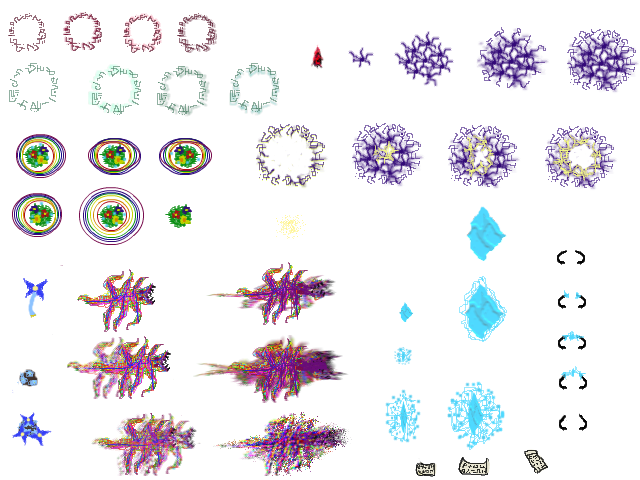
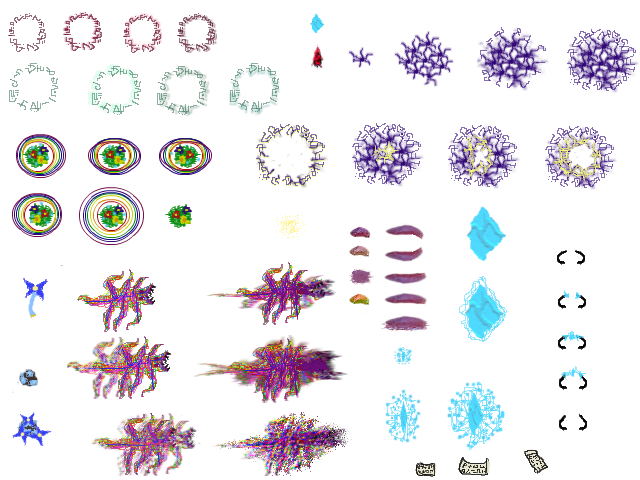
Little updates and such...

Changed region(s): [[0.5312, 0.4688, 0.6875, 0.6875], [0.4688, 0.0312, 0.5, 0.0625]]

diff --git a/web/otherLOTCB.js b/web/otherLOTCB.js
@@ -277,6 +277,9 @@ var mushBlurRot = 0;
 var mushStretch = [9, 9.5, 10, 11, 11.5, 12, 15];
 var mushStretchX = 9;
 var mushStretchY = 9;
+var mushBlurRot2 = 0;
+var mushStretchX2 = 9;
+var mushStretchY2 = 9;
 //Screen Covers (includes night and day cycle)
 function screenCover()
 {
@@ -358,11 +361,10 @@ function screenCover()
     //Cyrinthilim Mushroom Drug Trip
     if (player.cyrinthilimTrip)
     {
-        mushBlurRot += 1/360 * Math.PI
+        mushBlurRot += 1/360 * Math.PI;
         mushStretchX = mushStretch[Math.floor(Math.random() * 7)];
         mushStretchY = mushStretch[Math.floor(Math.random() * 7)];
 
-        //todo add this drug trip!
         XXX.beginPath();
         XXX.save();
         XXX.translate(1/2 * CCC.width, 1/2 * CCC.height);
@@ -371,8 +373,37 @@ function screenCover()
         XXX.globalAlpha = 0.4;
         XXX.drawImage(mushBlur, -1/2 * mushBlur.width, -1/2 * mushBlur.height);
         XXX.restore();
-
     }
+
+    if (player.haeflowerTrip)
+    {
+         mushBlurRot2 += 20/360 * Math.PI;
+         mushStretchX2 = 8 + Math.floor(Math.random() * 20);
+         mushStretchY2 = 8 + Math.floor(Math.random() * 20);
+
+         XXX.beginPath();
+         XXX.save();
+         XXX.translate(1/2 * CCC.width, 1/2 * CCC.height);
+         XXX.scale(mushStretchX2, mushStretchY2);
+         XXX.rotate(mushBlurRot2);
+         XXX.globalAlpha = 0.4;
+         XXX.drawImage(rainSpin, -1/2 * rainSpin.width, -1/2 * rainSpin.height);
+         XXX.restore();
+
+        mushBlurRot -= 10/360 * Math.PI;
+        mushStretchX = 8 + Math.floor(Math.random() * 20);
+        mushStretchY = 8 + Math.floor(Math.random() * 20);
+
+        XXX.beginPath();
+        XXX.save();
+        XXX.translate(1/2 * CCC.width, 1/2 * CCC.height);
+        XXX.scale(mushStretchX, mushStretchY);
+        XXX.rotate(mushBlurRot);
+        XXX.globalAlpha = 0.4;
+        XXX.drawImage(rainblur, -1/2 * rainblur.width, -1/2 * rainblur.height);
+        XXX.restore();
+    }
+
 
     //Night and Day
     if (timeOfDay != "Day" && player.nightVision == false && gameState != "paused"|| player.underground && player.nightVision == false && gameState != "paused")

diff --git a/web/worldbuilderLOTCB.js b/web/worldbuilderLOTCB.js
@@ -173,13 +173,26 @@ function outlineBuilder(width, length, terrain, extraX, extraY)
         {
             if ((j - 1) * 300 + (extraX * 300) >= -X - 1 * CCC.width && (j - 1) * 300 + (extraX * 300) <= -X + 1 * CCC.width && (i - 1) * 300 + (extraY * 300) >= -Y - 1 * CCC.height && (i - 1) * 300 + (extraY * 300) <= -Y + 1 * CCC.height)
             {
-                if (player.cyrinthilimTrip)
+                if (player.cyrinthilimTrip || player.haeflowerTrip)
                 {
-                    XXX.save();
-                    XXX.globalAlpha = 0.4;
-                    XXX.scale(Math.random() * 6 + 1,Math.random() * 6 + 1)
-                    XXX.drawImage(blurDots, (j - 1) * 300 + (extraX * 300) + X, (i - 1) * 300 + (extraY * 300) + Y, 300, 300);
-                    XXX.restore();
+                    if (player.cyrinthilimTrip)
+                    {
+                        XXX.save();
+                        XXX.globalAlpha = 0.4;
+                        XXX.scale(Math.random() * 6 + 1,Math.random() * 6 + 1);
+                        XXX.drawImage(blurDots, (j - 1) * 300 + (extraX * 300) + X, (i - 1) * 300 + (extraY * 300) + Y, 300, 300);
+                        XXX.restore();
+                    }
+                    else if (player.haeflowerTrip)
+                    {
+                        haeRotate += 0.22;
+                        XXX.beginPath();
+                        XXX.fillStyle = "pink";
+                        XXX.strokeStyle = "pink";
+                        XXX.rect((j-1) * 300 + (extraX * 300) + X, (i - 1) * 300 + (extraY * 300) + Y, 300, 300);
+                        XXX.fill();
+                        XXX.stroke();
+                    }
                 }
                 else if (terrain == "outline")
                 {

diff --git a/web/adventurerLOTCB.js b/web/adventurerLOTCB.js
@@ -349,6 +349,8 @@ function Adventurer()
     this.timeSinceLastAlcoholCleanse = new Date().getTime();
     this.cyrinthilimTrip = false;
     this.cyrinthilimTime = 0;
+    this.haeflowerTrip = false;
+    this.haeflowerTime = 0;
     this.gassiness = false;
     this.gassyCha = 0;
     this.gassinessTime = 0;
@@ -2381,6 +2383,19 @@ function Adventurer()
             else
             {
                 this.cyrinthilimTrip = false;
+            }
+
+            //Haeflower Drug Trip
+            if (this.haeflowerTime > 0)
+            {
+                this.haeflowerTrip = true;
+                this.haeflowerTime -= 0.005 * (TTD / 16.75);
+                this.energy -= 0.00005 * (TTD / 16.75);
+                this.will -= 0.0001 * (TTD / 16.75);
+            }
+            else
+            {
+                this.haeflowerTrip = false;
             }
 
             //Food poisoning

diff --git a/web/legendOfTheCrackBear.js b/web/legendOfTheCrackBear.js
@@ -659,6 +659,18 @@ function legendaryPrerequisites()
     mushBlur.src = ("images/blurredGreenSwish.jpg");
     window.mushBlur = mushBlur;
 
+    var rainblur = new Image();
+    rainblur.src = ("images/rainbowBlur.jpg");
+    window.rainblur = rainblur;
+
+    var rainSpin = new Image();
+    rainSpin.src = ("images/rainbowSwirl.png");
+    window.rainSpin = rainSpin;
+
+    var rainSwirl = new Image();
+    rainSwirl.src = ("images/swirlTile.jpg");
+    window.rainSwirl = rainSwirl;
+
     var blurDots = new Image();
     blurDots.src = ("images/blurredDots.jpg");
     window.blurDots = blurDots;
@@ -1040,6 +1052,7 @@ var brewing;
 var forge;
 var handcrafted;
 var allSpells;
+var haeRotate = 0;
 
 //This sets the items that are in shops.
 function shopItemIDSetter()

diff --git a/web/cheatsLOTCB.js b/web/cheatsLOTCB.js
@@ -295,6 +295,10 @@ function cheats()
                 player.romance.push("hilmund");
             }
         }
+        else if (cheatcode.toLowerCase() == "haeyouthere")
+        {
+            player.haeflowerTime += 60;
+        }
         else if (cheatcode.toLowerCase() == "testunits")
         {
             if (testingUnitCenters == true)

diff --git a/web/datahandlingLOTCB.js b/web/datahandlingLOTCB.js
@@ -19,7 +19,7 @@ function autosave()
         saveType = null;
     }
     //Automatic autosaving
-    if (autosaving == true)
+    if (autosaving == true && player.health > (25/100) * player.healthMAX && player.inCombat == false)
     {
         if (Math.round(timePlayed % 180) == 0 && singleAuto == true && timePlayed >= 180)
         {
